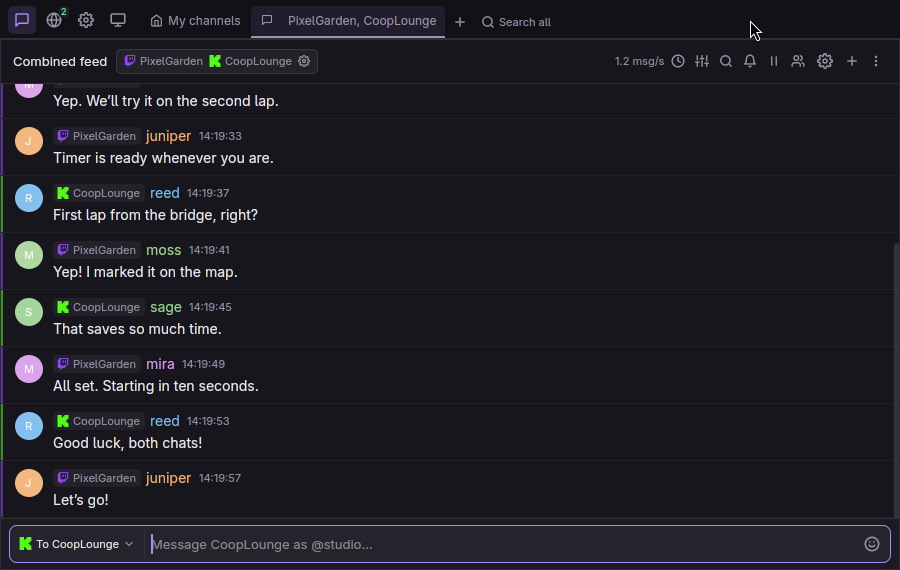
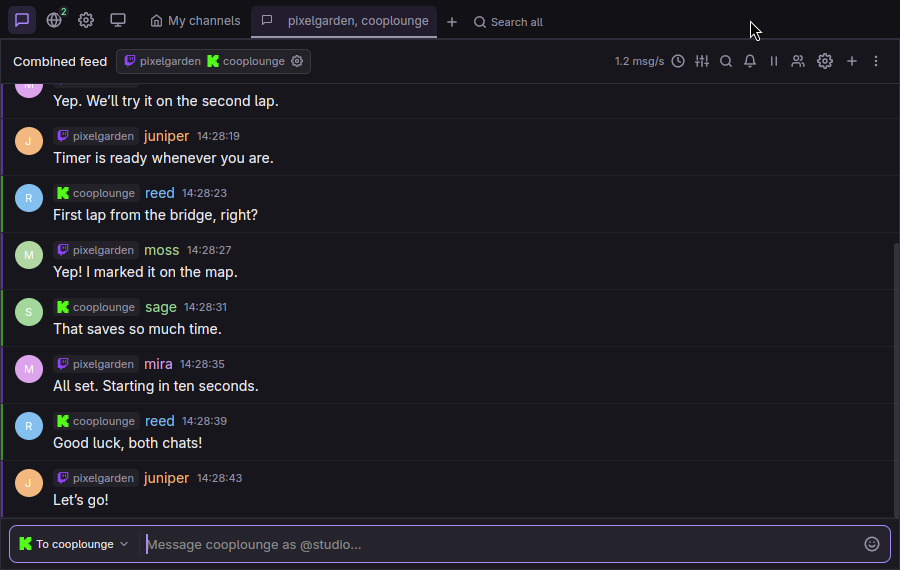
test(desktop): verify feeds from new channels

diff --git a/packages/desktop/scripts/qa-custom-feed.tsx b/packages/desktop/scripts/qa-custom-feed.tsx
@@ -40,9 +40,6 @@ const nodeSchema: z.ZodType<AutomationNode> = z.lazy(() =>
 )
 
 const backend = getDesktopBackend()
-const twitch = WatchedChannelStore.upsert('twitch', 'pixelgarden', 'PixelGarden')
-const kick = WatchedChannelStore.upsert('kick', 'cooplounge', 'CoopLounge')
-const other = WatchedChannelStore.upsert('twitch', 'nightarcade', 'NightArcade')
 const accounts = (['twitch', 'kick'] satisfies Account['platform'][]).map((platform): Account => ({
   id: `qa-${platform}`,
   platform,
@@ -57,7 +54,7 @@ const sent: Parameters<typeof backend.api.sendWatchedChannelMessage>[0][] = []
 let activeIds: readonly string[] = []
 backend.api.setActiveWatchedChannels = async ({ ids }) => {
   activeIds = ids
-  for (const channel of [twitch, kick, other]) {
+  for (const channel of WatchedChannelStore.findAll()) {
     if (!ids.includes(channel.id)) continue
     backend.events.emit('watched_channel_status', {
       channelId: channel.id,
@@ -143,6 +140,22 @@ function click(testId: string): void {
   pointAt(node, true)
 }
 
+async function stageSource(platform: WatchedChannel['platform'], slug: string, count: number) {
+  click('feed-add-source')
+  await until(() => find(`add-platform-${platform}`), `${platform} platform in source form`)
+  click(`add-platform-${platform}`)
+  click('add-channel-input')
+  input('type', '--delay', '20', slug)
+  await until(() => painted(slug), `${platform} channel entered`)
+  await Bun.sleep(100)
+  click('add-channel-confirm')
+  await until(
+    () => find(`feed-source-new-${platform}:${slug}`) && painted(`${count} selected`),
+    `${platform} channel staged`,
+  )
+  assert.equal(WatchedChannelStore.findByPlatformAndSlug(platform, slug), null)
+}
+
 let timestamp = Date.now() - 70_000
 function incoming(channel: WatchedChannel, id: string, text: string, name: string, color: string) {
   timestamp += 4000
@@ -162,6 +175,7 @@ function incoming(channel: WatchedChannel, id: string, text: string, name: strin
 }
 
 try {
+  assert.deepEqual(WatchedChannelStore.findAll(), [])
   await backend.api.setTabChannelIds({ ids: [] })
   await app.loadInitialData(backend)
   await manager.start()
@@ -172,20 +186,27 @@ try {
   click('tab-add')
   await until(() => find('add-channel-create-feed'), 'create feed from plus menu')
   click('add-channel-create-feed')
-  await until(() => find(`feed-source-${twitch.id}`), 'saved channels in feed editor')
-  click(`feed-source-${twitch.id}`)
-  await until(() => painted('1 selected'), 'first source selected')
-  click(`feed-source-${kick.id}`)
-  await until(() => painted('2 selected'), 'second source selected')
+  await until(() => find('feed-add-source') && painted('0 selected'), 'empty feed editor')
+  await stageSource('twitch', 'pixelgarden', 1)
+  await stageSource('kick', 'cooplounge', 2)
+  assert.deepEqual(WatchedChannelStore.findAll(), [])
+  assert.deepEqual(chatTabsStore.get().value.openIds, [])
   input('mousemove', '750', '20')
   await Bun.sleep(160)
   await captureGuiQaDisplay('combined-feed-setup')
   click('feed-save')
+  await until(() => find('chat-feed-manage') && !find('feed-editor'), 'combined feed opens')
+  const twitch = WatchedChannelStore.findByPlatformAndSlug('twitch', 'pixelgarden')
+  const kick = WatchedChannelStore.findByPlatformAndSlug('kick', 'cooplounge')
+  assert(twitch && kick)
   await until(
-    () => find('chat-feed-manage') && activeIds.includes(twitch.id) && activeIds.includes(kick.id),
+    () => activeIds.includes(twitch.id) && activeIds.includes(kick.id),
     'both providers are subscribed',
   )
   const tabId = app.activeWatchedTabStore.get()
+  assert.deepEqual(chatTabsStore.get().value.openIds, [tabId])
+  assert.deepEqual(await backend.api.getTabChannelIds(), [tabId])
+  assert(!find(`tab-${twitch.id}`) && !find(`tab-${kick.id}`), 'sources have no standalone tabs')
   const saved = (await backend.api.getWatchedChannelsLayout({ tabId }))?.root
   assert(saved?.type === 'panel' && saved.content.type === 'feed')
   assert.deepEqual(
@@ -203,6 +224,7 @@ try {
     assert.equal(sent[count - 1]?.text, text)
   }
 
+  const other = WatchedChannelStore.upsert('twitch', 'nightarcade', 'NightArcade')
   const messages: [WatchedChannel, string, string, string][] = [
     [twitch, 'mira', 'Welcome in! We’re running the co-op route tonight.', '#dca4eb'],
     [kick, 'reed', 'Kick chat checking in. Audio sounds great.', '#83bfef'],
@@ -339,17 +361,7 @@ try {
   await until(() => find('chat-edit-feed'), 'combine action in watched pane menu')
   click('chat-edit-feed')
   await until(() => find('feed-add-source') && painted('1 selected'), 'keeps the original source')
-  click('feed-add-source')
-  await until(() => find('add-platform-youtube'), 'new source platform picker')
-  click('add-platform-youtube')
-  await until(() => painted('@handle'), 'YouTube channel field')
-  click('add-channel-input')
-  input('type', '--delay', '20', '@studioarchive')
-  await until(() => painted('@studioarchive'), 'new channel handle entered')
-  await Bun.sleep(100)
-  click('add-channel-confirm')
-  await until(() => painted('2 selected'), 'new YouTube source staged')
-  assert.equal(WatchedChannelStore.findByPlatformAndSlug('youtube', '@studioarchive'), null)
+  await stageSource('youtube', '@studioarchive', 2)
   click('feed-save')
   await until(() => find('chat-feed-manage') && !find('feed-editor'), 'watched pane becomes a feed')
   const youtube = WatchedChannelStore.findByPlatformAndSlug('youtube', '@studioarchive')

diff --git a/packages/desktop/src/gpuix/i18n/locales/ru/app.ts b/packages/desktop/src/gpuix/i18n/locales/ru/app.ts
@@ -119,7 +119,7 @@ export const ruApp = {
 
   'app.feed.createTitle': 'Создать общую ленту',
   'app.feed.editTitle': 'Источники ленты',
-  'app.feed.description': 'Читайте сообщения из нескольких каналов в одной панели чата.',
+  'app.feed.description': 'Выберите сохранённые каналы или добавьте новые прямо в эту ленту.',
   'app.feed.selectedCount': 'Выбрано: {count}',
   'app.feed.addChannel': 'Добавить канал',
   'app.feed.addToSelection': 'Добавить в список',

diff --git a/packages/desktop/src/gpuix/i18n/locales/en/app.ts b/packages/desktop/src/gpuix/i18n/locales/en/app.ts
@@ -115,7 +115,7 @@ export const app = {
 
   'app.feed.createTitle': 'Create combined feed',
   'app.feed.editTitle': 'Manage feed sources',
-  'app.feed.description': 'Read messages from several channels in one chat pane.',
+  'app.feed.description': 'Choose saved channels or add new ones directly to this feed.',
   'app.feed.selectedCount': '{count} selected',
   'app.feed.addChannel': 'Add a channel',
   'app.feed.addToSelection': 'Add to selection',

diff --git a/docs/benchmarks/2026-11-10-custom-feeds/report.md b/docs/benchmarks/2026-11-10-custom-feeds/report.md
@@ -28,9 +28,10 @@ production React. The runner verifies the loaded React, JSX runtime and reconcil
 This harness uses a coupled generator and synthetic chat events. It measures the native UI and
 store pipeline with generated traffic.
 
-After the benchmark, the branch was rebased over the keyboard focus styling fix
-`ddfd9f3` and the backend 7TV reconnect fix `4a1f8c2`. The benchmark injects chat
-events directly and has no keyboard input. The native interaction check was rerun
+After the benchmark, the branch was rebased over keyboard focus styling (`ddfd9f3`),
+backend 7TV reconnect handling (`4a1f8c2`), update toasts (`033d5f6`), and pointer placement
+of the message context menu (`3cce616`). The benchmark injects chat events directly and
+leaves the update toast and context menu closed. The native interaction check was rerun
 on the rebased branch.
 
 ## Production target
@@ -93,3 +94,6 @@ Native pointer and keyboard input exercised creating, editing and restoring feed
 long source list, Escape during incoming traffic, choosing between same-platform destinations,
 and routing a Twitch reply while the Kick composer destination was selected. The 900×570 and
 540×420 windows used a private profile and generated messages.
+
+The creation check starts with an empty profile and stages a new Twitch and Kick channel
+inside the editor. Saving persists both sources and opens a single feed tab.
